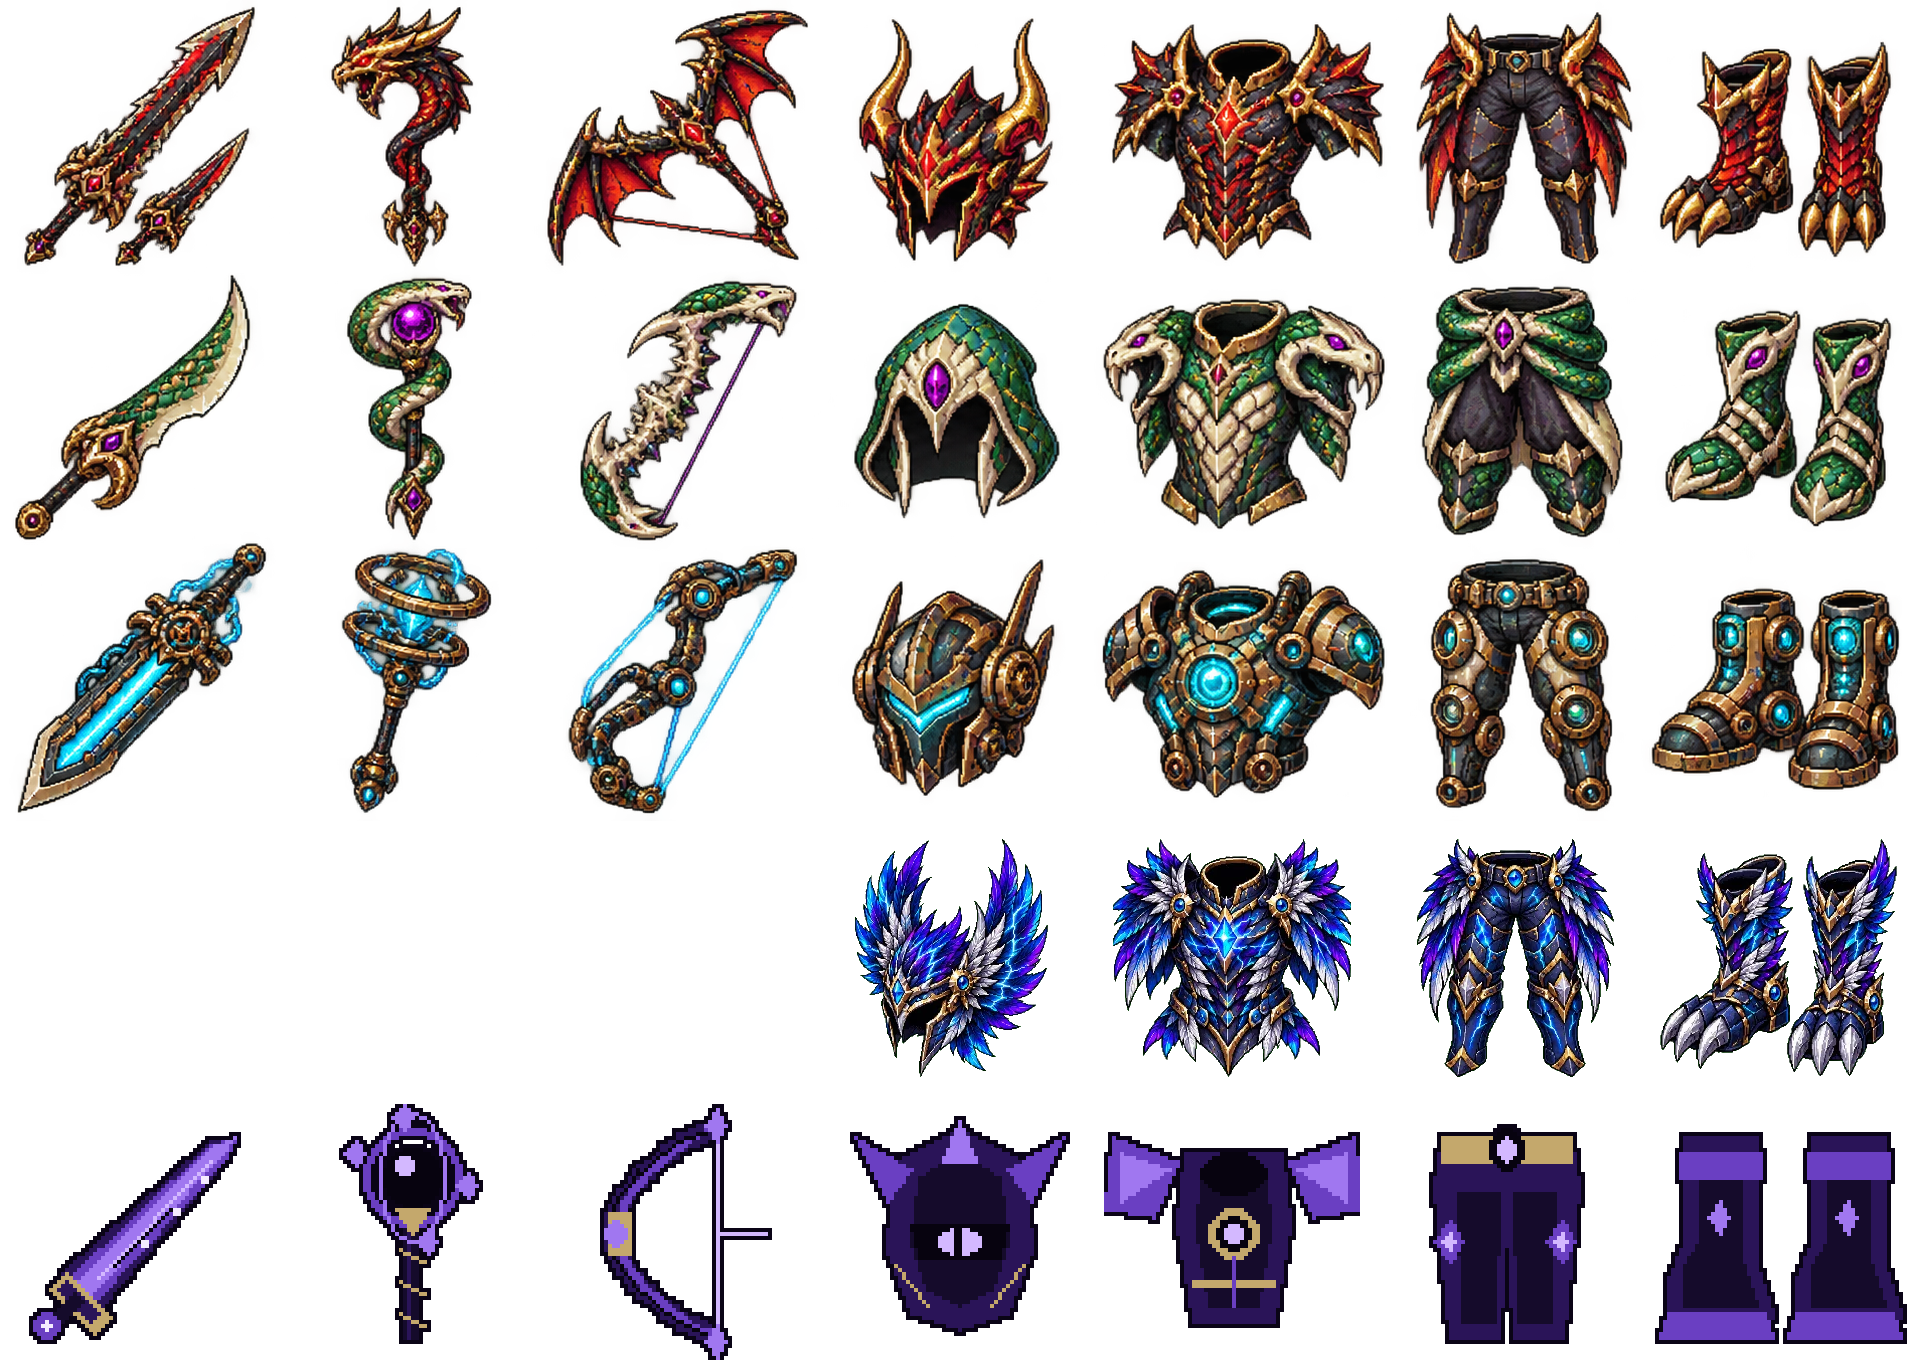
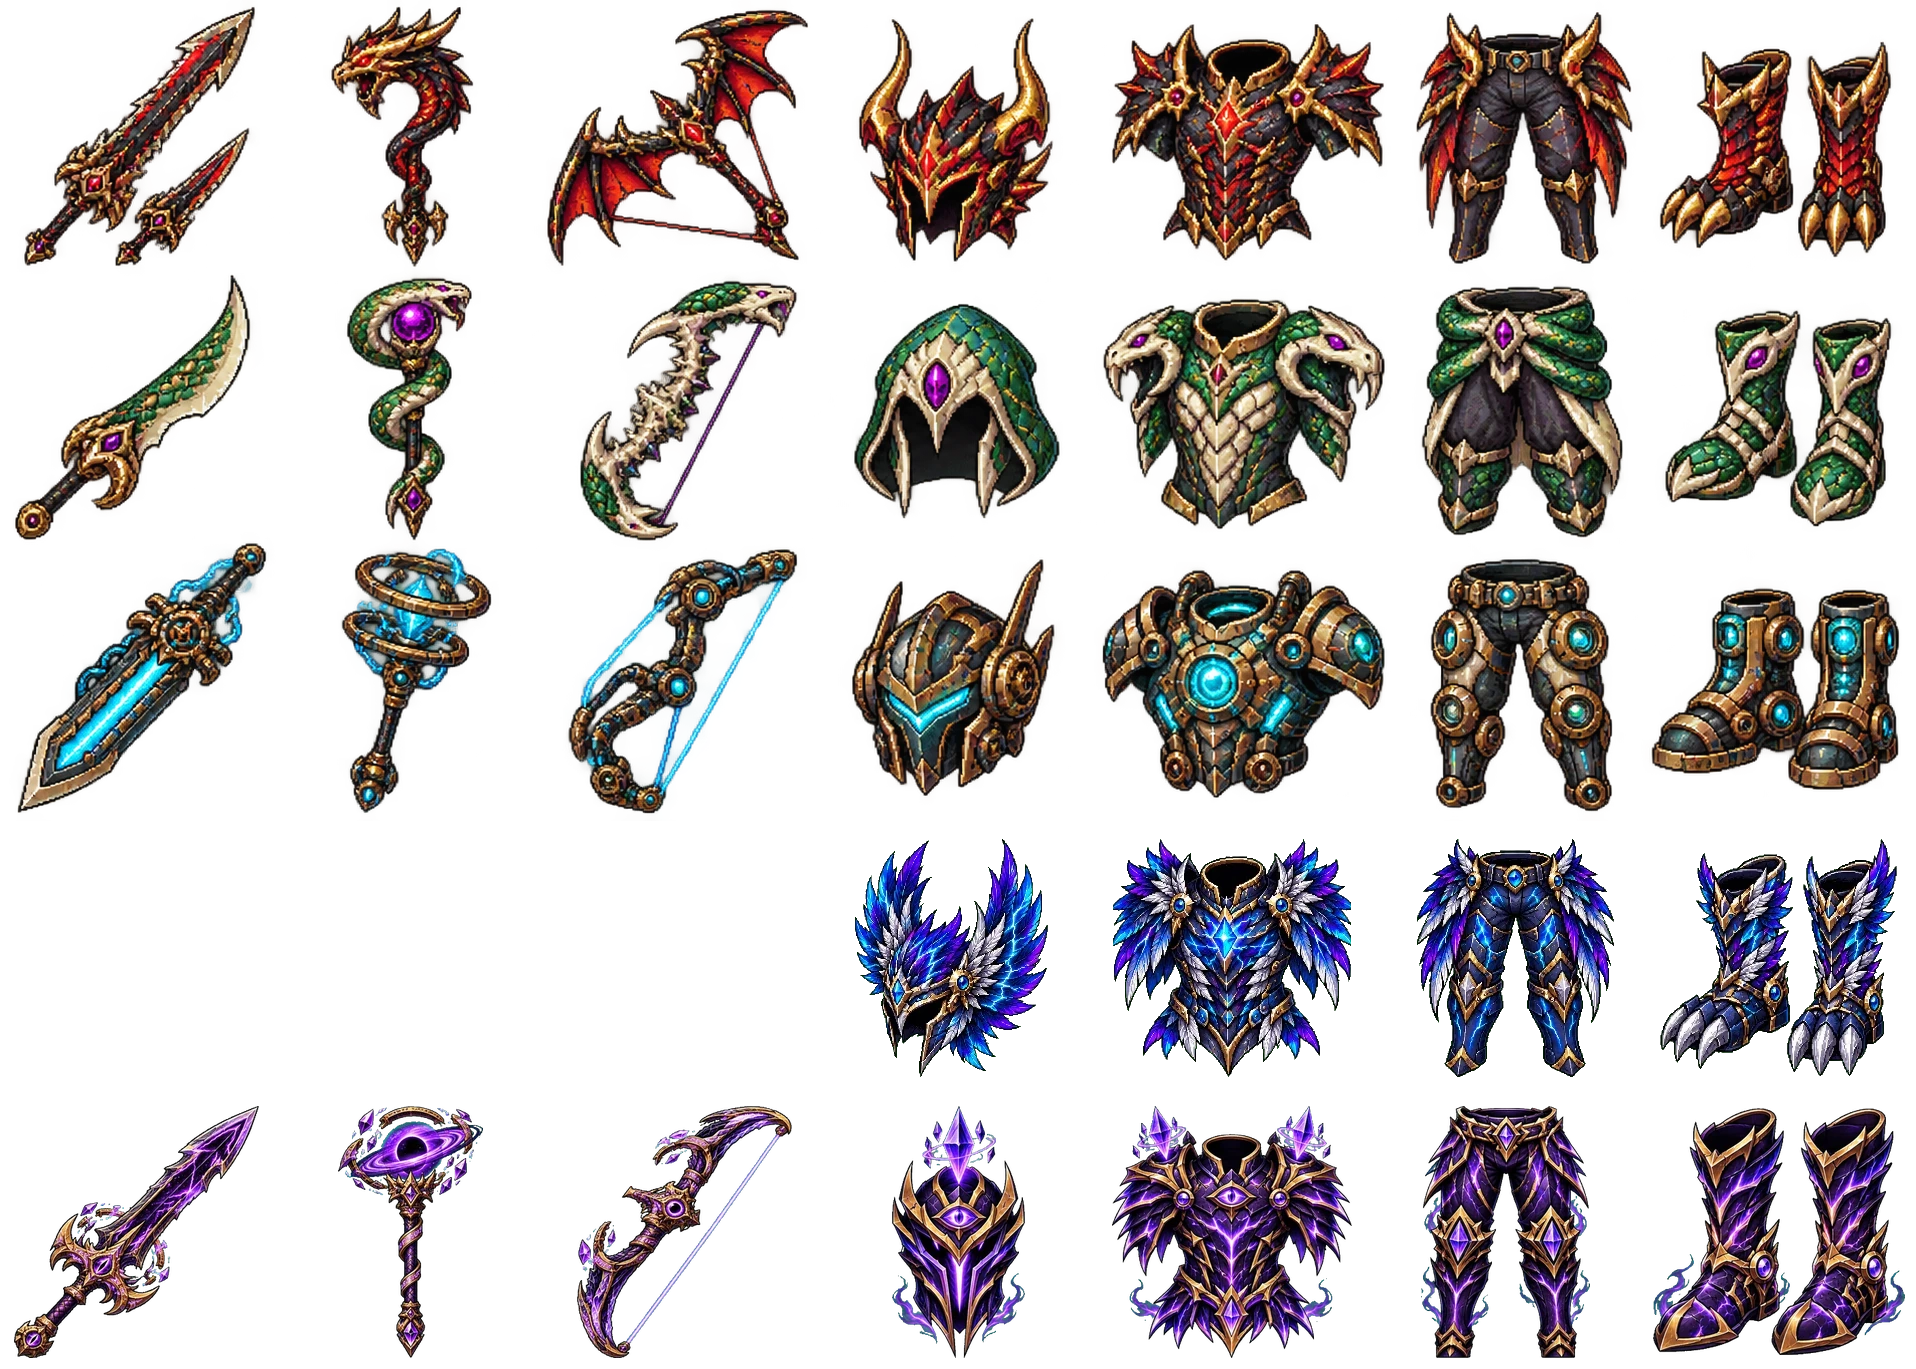
공허의 관측자 보스 · 전설 무기 · 차원의 지배자 방어구 · 입은 모습을 Codex 정식 그림으로 바꾼다
Claude-Session: https://claude.ai/code/session_01Gwv45QP5Hv2erexXEgws5m

diff --git a/src/game/bookData.js b/src/game/bookData.js
@@ -34,10 +34,12 @@ const dropAvg = DROP_ROLL.reduce((n, [c, w]) => n + c * w, 0) / total;
 // 10월 26일 (7) 때의 400~800 체력 — 구역 시작 레벨마다(끝 하나 더) · 보스. 같은 날 (8)에서 낮춰 책에는 그때 값을 적는다
 const DEEP_WAS = { mob: [226100, 279650, 339150, 404600, 476000, 553350, 636650, 725900, 821100], boss: [3689000, 4462500, 5355000, 6426000, 7616000, 8925000, 10412500, 11900000] };
 export const PATCH_BOOKS = [
+  { id: "patch-2026-11-05-voidart", title: "패치노트 · 11월 5일", sub: "공허의 관측자 정식 그림", color: "#8d6bd1",
+    pages: [{ h: "공허의 관측자 새 그림", p: ["보스 몸이 새 그림으로 바뀌었습니다. 검은 보라빛 구체에 박힌 거대한 눈과 둘레를 도는 고리 · 수정 조각입니다. 공격을 준비하면 고리가 벌어지고 눈이 밝아집니다.", "공허의 대검 · 지팡이 · 장궁과 차원의 지배자 투구 · 갑옷 · 바지 · 신발 그림도 새로 그렸습니다.", "차원의 지배자 투구 · 갑옷 · 신발을 끼면 캐릭터가 입은 모습으로 보입니다. 바지와 능력치는 그대로입니다."] }] },
   { id: "patch-2026-11-04-voidobserver", title: "패치노트 · 11월 4일 (7)", sub: "다섯 번째 월드보스 공허의 관측자", color: "#8d6bd1",
     pages: [{ h: "공허의 관측자", p: ["체력 15,000,000 · 권장 레벨 800입니다. 제한 시간과 입장료는 다른 월드보스와 같고 출현 차례에 함께 들어갑니다.", "중력 붕괴: 1.5초 예고 뒤 최대 체력의 45%. 터지기 직전 원 안의 사람을 중심으로 끌어당깁니다. 원 밖으로 나가면 피합니다.", "공간 절단: 직선 3번. 한 번마다 0.8초 예고 · 최대 체력의 30%. 선 위치가 바닥에 보입니다.", "공허의 교차: 체력 50% 이하에서만 씁니다. 포탈 둘 사이를 건너며 충격파 3번 · 한 번에 최대 체력의 40%.", "사건의 지평선: 4.6초 예고 뒤 넓은 범위 즉사. 보스 주변 안전 구역 3곳에 들어가면 삽니다. 대쉬 무적 · 부활 · 합동 공격으로 끊기 규칙은 다른 월드보스와 같습니다."] },
       { h: "전설 무기 셋", p: ["공허의 대검 「차원 절단」: 0.9초 동안 6번 베고 공간 폭발(반경 200). 총 5.6배 · 대기 15초. 「차원의 잔흔」은 3마리 처치마다 다음 평타에 반경 170 공간 참격입니다.", "공허의 장궁 「차원 폭우」: 목표 위 균열에서 1.5초 동안 화살 8번(사거리 600 · 반경 230). 총 5.6배 · 대기 17초. 「차원 화살」은 평타 4번 적중마다 반경 130 화살 폭발입니다.", "공허의 지팡이 「특이점 붕괴」: 블랙홀이 몬스터를 끌어당기며 2초 동안 5번 + 마지막 큰 폭발(사거리 500 · 반경 250). 총 6.0배 · 대기 19초. 「중력 공명」은 스킬 5번 적중마다 반경 140 작은 폭발입니다.", "다단히트는 총 배율을 나눠 씁니다. 패시브 추가타는 다시 패시브를 일으키지 않습니다. 월드보스를 칠 때는 끌어당김이 없습니다. 화염검은 바뀌지 않았습니다."] },
-      { h: "방어구와 보상", p: ["차원의 지배자(투구 · 갑옷 · 바지 · 신발) 2세트: 스킬 재사용 대기 5% 감소. 4세트: 스킬이 맞은 뒤 4초 동안 받는 피해 8% 감소 · 12초마다.", "무기는 종마다 2% · 방어구는 부위마다 3%입니다. 코인 · 재료 · 물약 보상은 그대로입니다. 다른 월드보스의 체력 · 패턴 · 드롭은 바뀌지 않았습니다.", "월드보스 출현 차례가 넷에서 다섯으로 늘어 시간대별 보스가 바뀝니다. 그림은 임시 그림입니다."] }] },
+      { h: "방어구와 보상", p: ["차원의 지배자(투구 · 갑옷 · 바지 · 신발) 2세트: 스킬 재사용 대기 5% 감소. 4세트: 스킬이 맞은 뒤 4초 동안 받는 피해 8% 감소 · 12초마다.", "무기는 종마다 2% · 방어구는 부위마다 3%입니다. 코인 · 재료 · 물약 보상은 그대로입니다. 다른 월드보스의 체력 · 패턴 · 드롭은 바뀌지 않았습니다.", "월드보스 출현 차례가 넷에서 다섯으로 늘어 시간대별 보스가 바뀝니다. 그림은 11월 5일 정식 그림으로 바뀌었습니다."] }] },
   { id: "patch-2026-11-04-shadowcircle", title: "패치노트 · 11월 4일 (6)", sub: "암흑검 사거리 원 표시", color: "#b4a6d6",
     pages: [{ h: "사거리와 같은 원", p: ["종말의 연격을 쓰면 사거리 표시 원도 반지름이 1배 → 1.5배로 커집니다.", "평타 판정과 같은 사거리를 표시합니다. 스킬 종료나 무기 교체 때 원래 크기로 돌아옵니다."] }] },
   { id: "patch-2026-11-04-shadowrange", title: "패치노트 · 11월 4일 (5)", sub: "암흑검 스킬 사거리 증가", color: "#b4a6d6",

diff --git a/src/game/updates.js b/src/game/updates.js
@@ -2,9 +2,10 @@
    id가 바뀌면 아직 안 본 사람의 단추에 점이 뜬다.
    id 는 순서를 가리는 값이라 이미 나간 것은 고치지 않는다. 화면에 보이는 날짜는 date 다(한국 시간 기준으로 적는다). */
 // RPG 서버에 들어오면 한 번 띄우는 업데이트 공지 — id 를 바꾸면 모두에게 다시 뜬다. notes 는 아래 UPDATES 의 id(위에서부터 보인다)
-export const RPG_NOTICE = { id: "2026-10-216", notes: ["2026-10-216", "2026-10-215", "2026-10-214", "2026-10-213"] };
+export const RPG_NOTICE = { id: "2026-10-217", notes: ["2026-10-217", "2026-10-216", "2026-10-215", "2026-10-214"] };
 
 export const UPDATES = [
+  { id: "2026-10-217", date: "11월 5일", items: ["공허의 관측자의 몸과 전설 무기 · 방어구 그림이 새 그림으로 바뀌었습니다.", "차원의 지배자 투구 · 갑옷 · 신발을 끼면 캐릭터가 입은 모습으로 보입니다."] },
   { id: "2026-10-216", date: "11월 4일", items: ["다섯 번째 월드보스 「공허의 관측자」가 나타납니다. 체력 15,000,000 · 권장 레벨 800이고 제한 시간 · 입장료는 다른 월드보스와 같습니다.", "공격은 네 가지입니다. 중력 붕괴(보라색 원 · 안에 있으면 끌려와 폭발) · 공간 절단(직선 3번) · 공허의 교차(체력 50% 이하 · 포탈 사이를 건너며 충격파) · 사건의 지평선(4.6초 예고 즉사 · 보스 주변 안전 구역 3곳).", "전설 무기가 셋 늘었습니다. 공허의 대검 「차원 절단」 · 공허의 장궁 「차원 폭우」 · 공허의 지팡이 「특이점 붕괴」입니다. 각각 2% 확률로 나옵니다. X 를 한 번 누르면 끝까지 자동으로 나갑니다.", "방어구 「차원의 지배자」가 부위마다 3% 확률로 나옵니다. 2세트는 스킬 재사용 대기 5% 감소 · 4세트는 스킬이 맞은 뒤 4초 동안 받는 피해 8% 감소(12초마다)입니다.", "보스 그림과 장비 그림은 임시 그림입니다. 나중에 바뀝니다."] },
   { id: "2026-10-215", date: "11월 4일", items: ["암흑검 종말의 연격을 쓰면 사거리 표시 원도 늘어난 평타 사거리만큼 50% 커집니다. 스킬이 끝나면 원래 크기로 돌아옵니다."] },
   { id: "2026-10-214", date: "11월 4일", items: ["암흑검 종말의 연격을 쓰면 10초 동안 평타 사거리가 50% 늘어납니다.", "연격 1·2타 범위는 150 → 225로 늘었습니다. 내려치기 범위는 120 → 180으로 늘었습니다."] },

diff --git a/src/game/rpgArt.js b/src/game/rpgArt.js
@@ -78,7 +78,7 @@ const WEAPON_GRIP = {
   dragon_dual: [26, 104, 109, 15], dragon_staff: [64, 100, 65, 16], dragon_bow: [66, 67, 60, 12],
   serpent_sword: [24, 108, 108, 20], serpent_staff: [62, 100, 62, 15], serpent_bow: [62, 64, 75, 14],
   machine_sword: [25, 105, 100, 20], machine_staff: [62, 100, 62, 15], machine_bow: [63, 64, 76, 14],
-  void_great: [25, 105, 109, 19], void_staff: [64, 113, 64, 12], void_bow: [32, 64, 79, 13],   // 공허 무기(11월 4일, 장비 시트 5행)
+  void_great: [29, 96, 120, 6], void_staff: [62, 97, 62, 14], void_bow: [60, 52, 110, 11],   // 공허 무기(11월 4일, 장비 시트 5행)
   clockwork: [28, 26, 122, 122], coral: [26, 102, 120, 4], flame: [97, 94, 4, 4], forest: [95, 104, 12, 6],
   frost: [100, 100, 6, 4], holy: [92, 94, 12, 10], shadow: [104, 108, 12, 6], star: [102, 102, 6, 6],
   thunder: [24, 100, 120, 6], viper: [36, 44, 122, 118],

diff --git a/design/void/build-art.py b/design/void/build-art.py
@@ -1,0 +1,56 @@
+#!/usr/bin/env python3
+"""공허의 관측자 정식 그림 묶기(11월 5일, Codex 생성) — 보스 몸 · 장비 시트 5행.
+원본은 scratchpad 에서 key-green.py 로 지운 투명 WebP: boss-k.webp(1024x512) · weapons-k.webp(1200x400, 3칸) · armor-k.webp(1600x400, 4칸).
+실행: python3 design/void/build-art.py <원본 폴더>   (장비 시트는 design/void/world-equipment-4rows.webp 에 5행을 새로 붙인다)
+"""
+import os, sys, json
+import numpy as np
+from PIL import Image
+
+ROOT = os.path.abspath(os.path.join(os.path.dirname(__file__), '..', '..'))
+ASSET = os.path.join(ROOT, 'public/assets/game/rpg')
+SRC = sys.argv[1] if len(sys.argv) > 1 else '.'
+CELL_W, CELL_H, FIT = 1916 / 7, 1369 / 5, 252   # 칸 크기 · 아이콘이 들어갈 최대 크기
+
+def defringe(im):
+    """초록 바탕을 지운 가장자리의 연두 테두리를 없앤다(G 가 R · B 보다 튀면 눌러 준다)"""
+    a = np.array(im.convert('RGBA')).astype(int)
+    m = np.maximum(a[..., 0], a[..., 2])
+    a[..., 1] = np.minimum(a[..., 1], m)
+    return Image.fromarray(a.astype('uint8'), 'RGBA')
+
+def load(n):
+    return defringe(Image.open(os.path.join(SRC, n)))
+
+# 보스 몸 — 그대로(1024x512 · 2열)
+defringe(Image.open(os.path.join(SRC, 'boss-k.webp'))).save(os.path.join(ASSET, 'boss/void-observer.webp'), quality=92, method=6)
+
+def fit(cell_im):
+    """칸 그림을 알파 경계 상자로 잘라 FIT 안에 맞춰 키운다. 변환(자른 좌우 · 위 · 배율)도 돌려준다"""
+    bb = cell_im.getbbox()
+    c = cell_im.crop(bb)
+    s = FIT / max(c.size)
+    c = c.resize((max(1, round(c.width * s)), max(1, round(c.height * s))), Image.LANCZOS)
+    return c, bb, s
+
+weap = load('weapons-k.webp'); arm = load('armor-k.webp')
+cells = [weap.crop((i * 400, 0, i * 400 + 400, 400)) for i in range(3)] + [arm.crop((i * 400, 0, i * 400 + 400, 400)) for i in range(4)]
+base = Image.open(os.path.join(ROOT, 'design/void/world-equipment-4rows.webp')).convert('RGBA')
+assert base.size == (1916, 1095), base.size
+atlas = Image.new('RGBA', (1916, 1369), (0, 0, 0, 0)); atlas.alpha_composite(base)
+y0 = 1095; info = []
+for i, cell in enumerate(cells):
+    c, bb, s = fit(cell)
+    cx = round(i * CELL_W + (CELL_W - c.width) / 2); cy = round(y0 + (CELL_H - c.height) / 2)
+    atlas.alpha_composite(c, (cx, cy))
+    info.append(dict(i=i, bb=bb, s=s, cx=cx, cy=cy))
+atlas.save(os.path.join(ASSET, 'items/world-equipment.webp'), quality=92, method=6)
+# 손잡이 계산용 — 원본 칸 좌표 → 128 기준 칸 좌표
+def to128(i, x, y):
+    t = info[i]; X = t['cx'] + (x - t['bb'][0]) * t['s'] - i * CELL_W; Y = t['cy'] + (y - t['bb'][1]) * t['s'] - y0
+    return round(X / CELL_W * 128), round(Y / CELL_H * 128)
+if len(sys.argv) > 2:   # 손잡이 점 — python3 build-art.py <폴더> '{"0":[100,290,370,25]}' (원본 칸 좌표)
+    pts = json.loads(sys.argv[2])
+    for k, (gx, gy, tx, ty) in pts.items():
+        print(k, to128(int(k), gx, gy) + to128(int(k), tx, ty))
+print('bbox', [(t['i'], t['bb']) for t in info])

diff --git a/public/assets/game/README.md b/public/assets/game/README.md
@@ -84,7 +84,7 @@ python3 tools/png-to-webp.py             # public/assets/game 에 WebP 와 manif
 
 월드보스 장비: `rpg/items/world-equipment.webp` — 투명 1916×1095, 7열×4행(11월 1일 4행 추가). 행은 드래곤·거대 뱀·고대 번개 기계·뇌조(4행은 3~6열 방어구 네 칸만 — Codex 생성, 원본 `design/world/thunderbird-armor-src.webp`). 열은 전사 무기·지팡이·활·투구·갑옷·바지·신발. 원본/생성 기록은 `docs/월드보스-장비-이미지-생성.md`. 인벤토리와 손에 든 무기가 같은 시트 칸을 사용한다.
 입은 방어구 겉모습: `rpg/wear/<세트>.webp` — 투명 1536×1536, 4열(앞 · 옆 · 뒤 · 돌아섬) × 3행(투구 · 갑옷 · 신발), 칸 384×512. 세트는 `legend`(세트 없는 전설) · `dragon` · `serpent` · `machine` · `thunderbird`(`wearData.js WEAR_SETS`). 표준 몸(검사 남 네 방향, `design/wear/base-body.webp`)에 맞춰 Codex 로 뽑은 겹침 그림이고, `wearArt.js` 가 몸 높이에 맞춰 늘려 발밑 가운데로 겹친다. 원본 `design/wear/<세트>-<부위>-src.webp`.
-공허의 관측자(11월 4일): 임시 그림 — `rpg/boss/void-observer.webp`(1024×512, 2열×1행, 발 .84) · 장비 시트 5행(1916×1369) · `rpg/wear/void.webp`. 정식 규격은 `docs/공허의-관측자-그림-규격.md`.
+공허의 관측자(11월 5일, Codex 정식 그림 · 원본 `design/void/`): `rpg/boss/void-observer.webp`(1024×512, 2열×1행, 발 .84) · 장비 시트 5행(1916×1369) · `rpg/wear/void.webp`. 정식 규격은 `docs/공허의-관측자-그림-규격.md`.
 
 용아쌍검 손에 든 그림: `rpg/items/dragon-dual-held.webp` — 투명 1774×887, 2열×1행. 왼쪽 장검, 오른쪽 단검. `rpgArt.js`가 각 칸을 128px 기준으로 캐시하고 성별·방향별 양손 좌표에 따로 그린다. 가방·거래의 기존 쌍검 아이콘은 유지한다.
 

diff --git a/docs/공허의-관측자-그림-규격.md b/docs/공허의-관측자-그림-규격.md
@@ -1,7 +1,8 @@
 # 공허의 관측자 — 정식 그림 규격
 
-지금 들어간 그림은 `design/void/make-temp-art.py`가 코드로 그린 **임시 도트 그림**이다.
-아래 규격대로 정식 그림을 만들어 **같은 경로 · 같은 크기**로 덮어쓰면 코드를 고치지 않아도 바뀐다.
+11월 5일에 Codex(`codex-image` 스킬)로 만든 **정식 그림**으로 바꿨다(보스 몸 · 무기 3종 · 방어구 4종 · 입은 모습). 원본은 `design/void/*-src.webp`, 묶는 스크립트는 `design/void/build-art.py`.
+처음 넣었던 임시 도트 그림(`make-temp-art.py`)은 기록으로만 남긴다. 아래 규격은 그림을 다시 뽑을 때 **같은 경로 · 같은 크기**로 덮어쓰면 코드를 고치지 않아도 바뀐다는 뜻이다.
+정식 그림은 도트풍이 아니라 다른 월드보스(뇌조 등)와 같은 그려진 그림 화풍이다.
 공통: 투명 배경 WebP, 도트풍(기존 월드보스 그림과 같은 두께의 검은 보라 외곽선), 색은 검보라 `#2a1458` · 보라 `#6a3fc2` · 연보라 `#a077f0` · 빛 `#d3b8ff` · 포인트 금색 `#c4a86c`.
 
 ## 1. 보스 몸 — `public/assets/game/rpg/boss/void-observer.webp`
